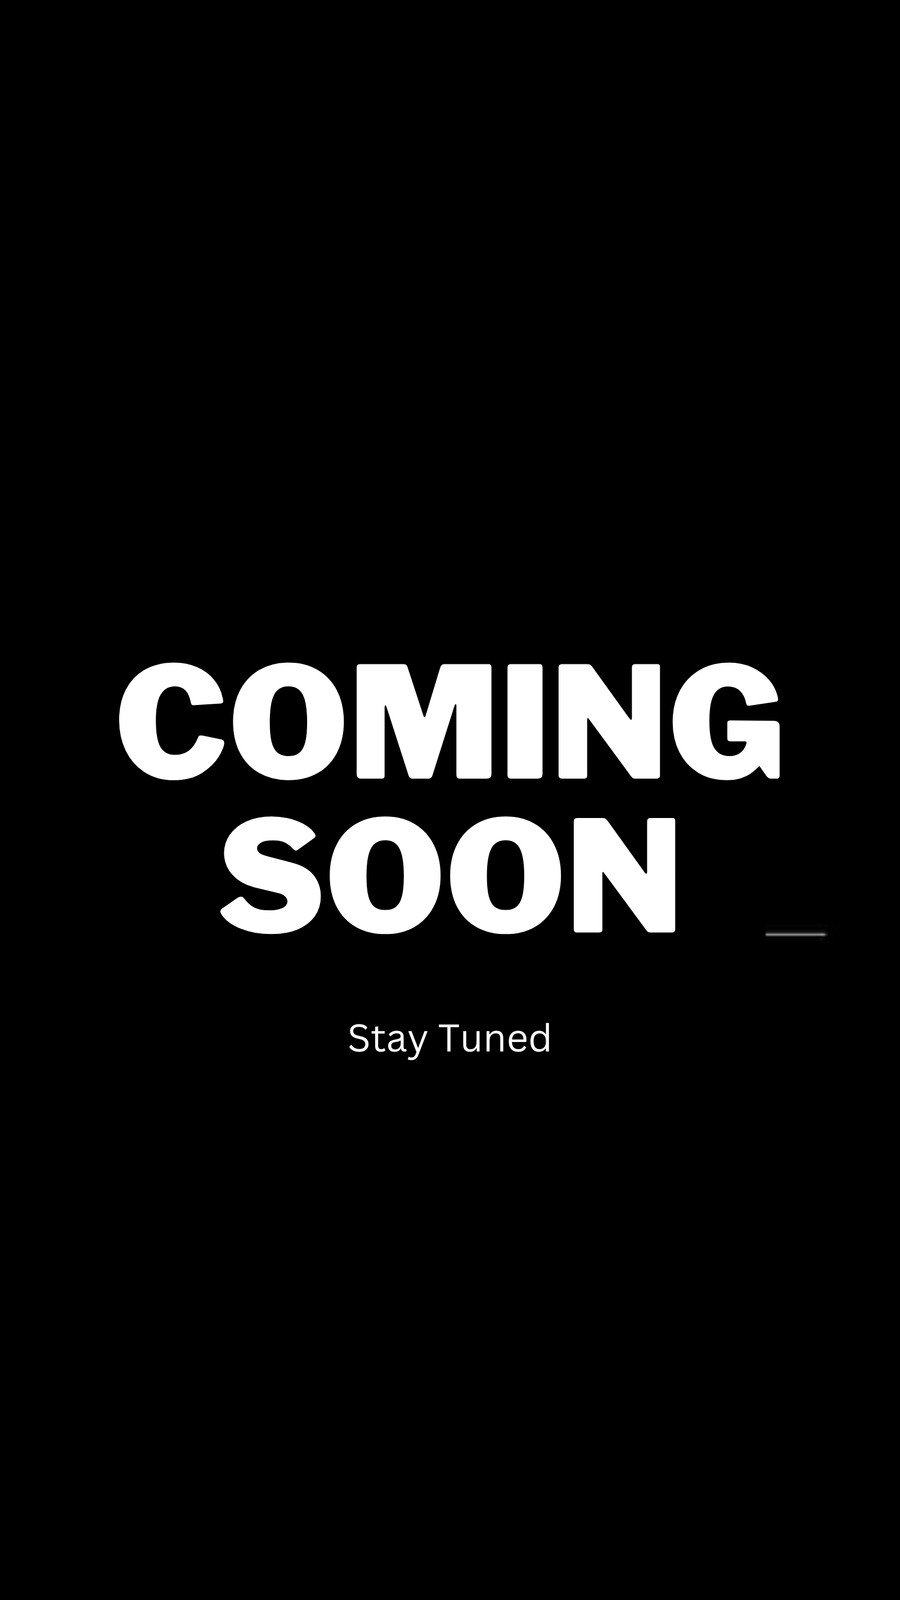
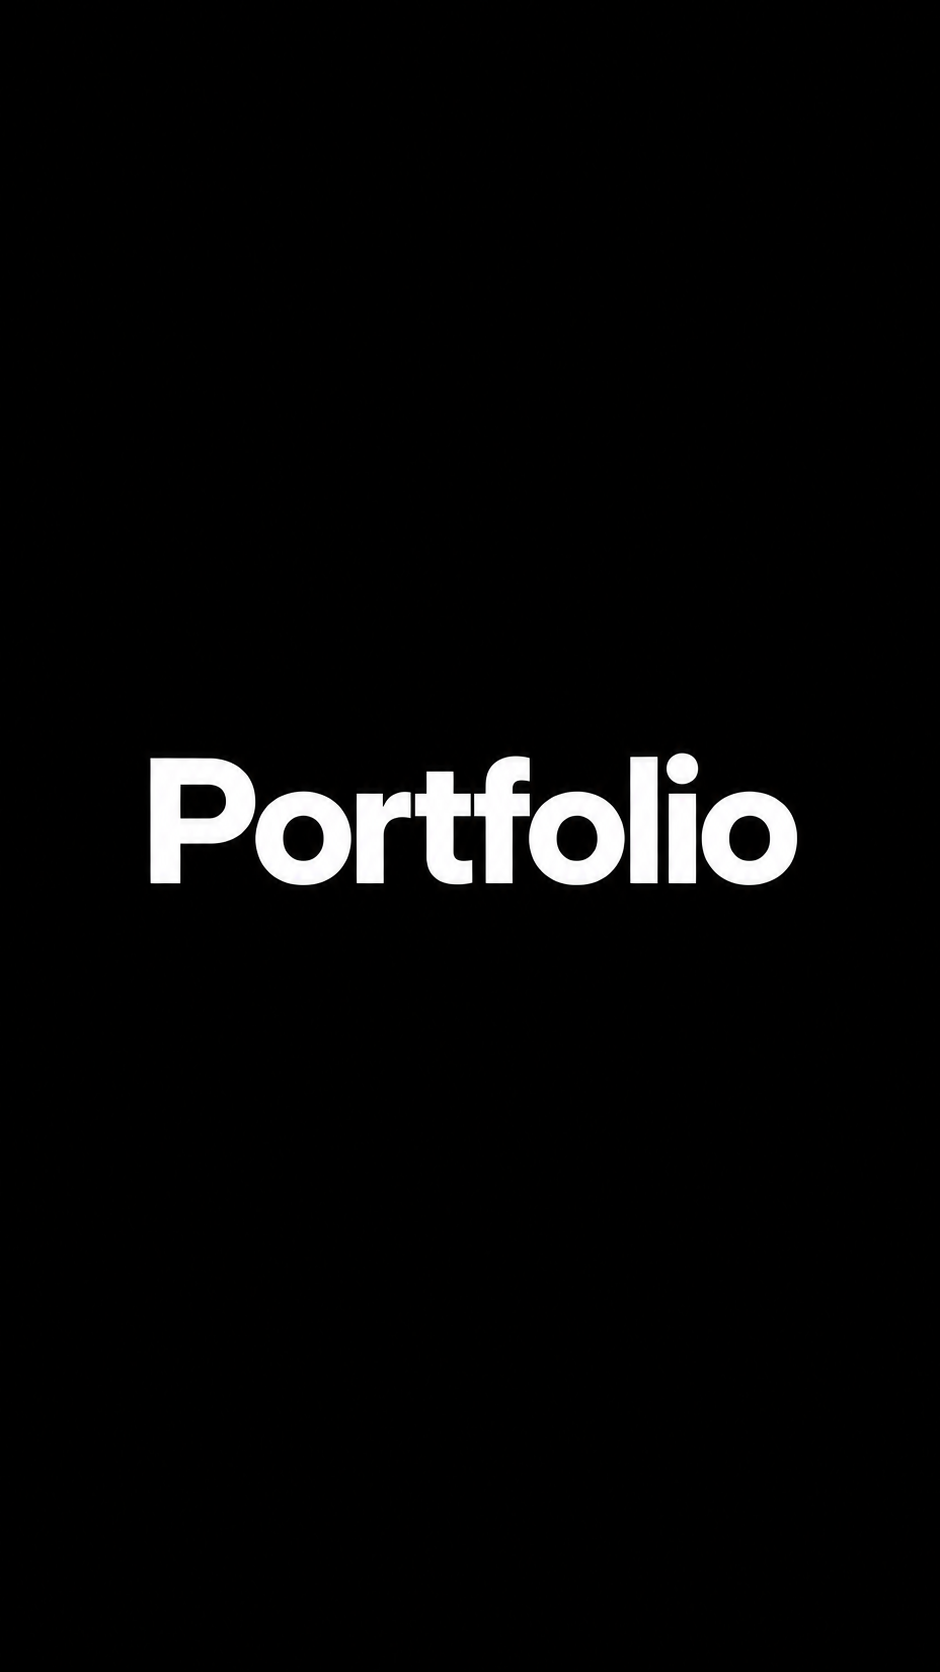
Update home pages and project image

Changed region(s): [[0.1244, 0.4062, 0.8711, 0.5938], [0.4978, 0.625, 0.6222, 0.6562], [0.3733, 0.625, 0.4667, 0.6562]]

diff --git a/en.html b/en.html
@@ -217,7 +217,7 @@
             preload="metadata"
           >
             <source
-              src="https://cdn.skystudiom.mk/kratovo-timelapse.mp4"
+              src="https://cdn.skystudiom.mk/leon-stan.mp4"
               type="video/mp4"
             />
           </video>

diff --git a/index.html b/index.html
@@ -172,7 +172,7 @@
             preload="metadata"
           >
             <source
-              src="https://cdn.skystudiom.mk/kratovo-timelapse.mp4"
+              src="https://cdn.skystudiom.mk/leon-stan.mp4"
               type="video/mp4"
             />
           </video>
